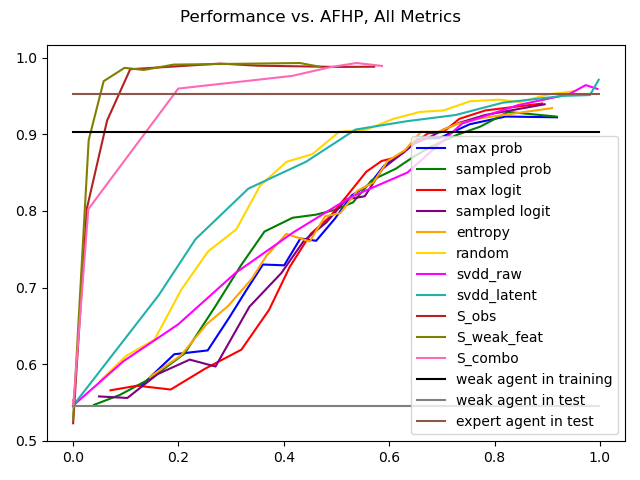
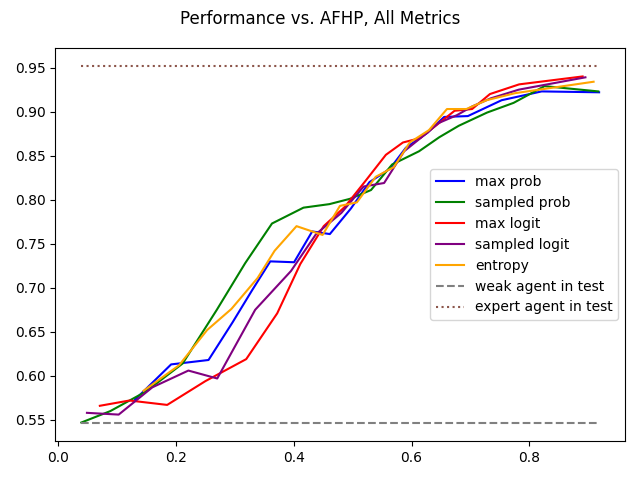
line textures

diff --git a/full_analysis.py b/full_analysis.py
@@ -471,9 +471,9 @@ if args.plotting:
             axes6.plot(afhp_means[sort_idx], rew_means[sort_idx], color = colors[metric], label = metric)
             axes6.plot(0, test_perf_mean, marker = "o", color = "black")
             axes6.plot(1, expert_perf_mean, marker = "o", color = "black")
-        axes5.plot([smallest_afhp, biggest_afhp], [train_perf_mean] * 2, color = "black", label = f"weak agent in training")
-        axes5.plot([smallest_afhp, biggest_afhp], [test_perf_mean] * 2, color = "gray", label = f"weak agent in test")
-        axes5.plot([smallest_afhp, biggest_afhp], [expert_perf_mean] * 2, color = "tab:brown", label = f"expert agent in test")
+        # axes5.plot([smallest_afhp, biggest_afhp], [train_perf_mean] * 2, color = "black", label = f"weak agent in training")
+        axes5.plot([smallest_afhp, biggest_afhp], [test_perf_mean] * 2, color = "gray", label = f"weak agent in test", linestyle = "dashed")
+        axes5.plot([smallest_afhp, biggest_afhp], [expert_perf_mean] * 2, color = "tab:brown", label = f"expert agent in test", linestyle = "dotted")
         axes5.legend()
         axes6.legend()
         fig5.suptitle("Performance vs. AFHP, All Metrics")
